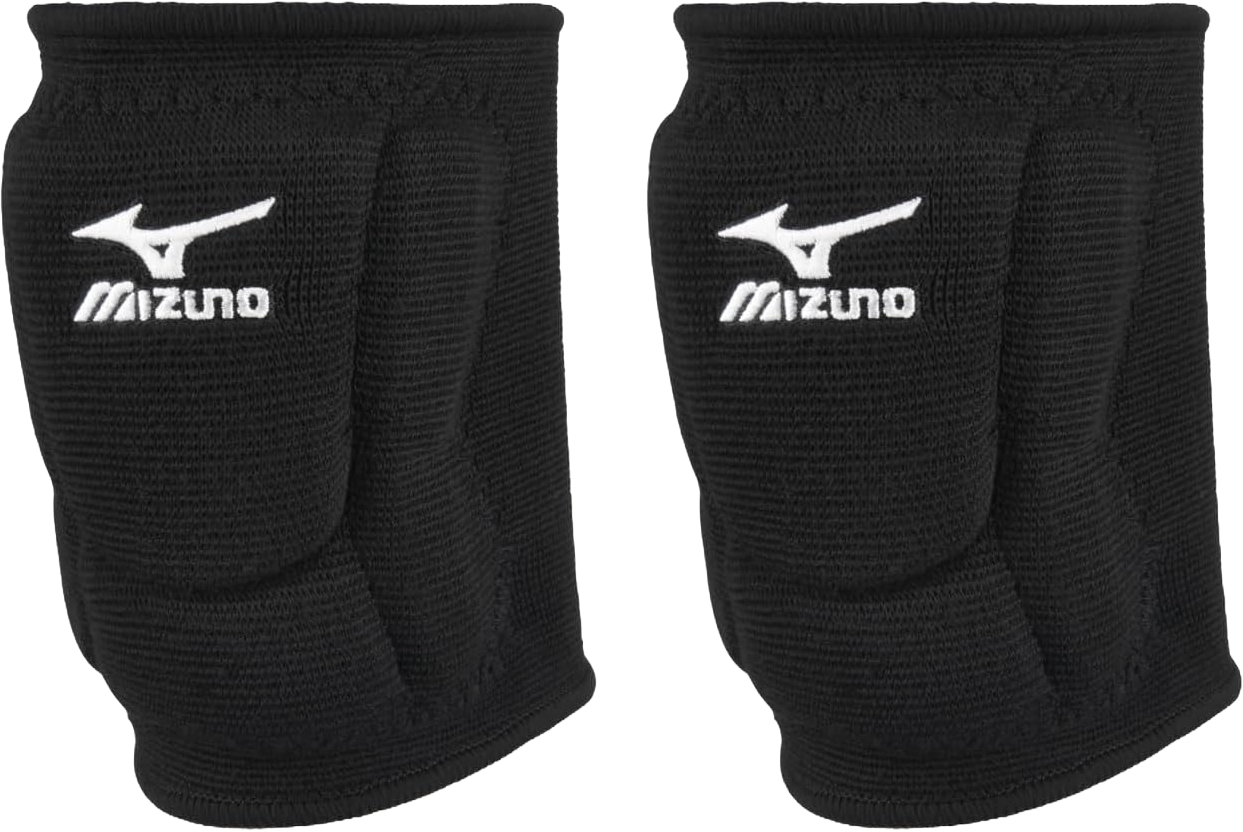
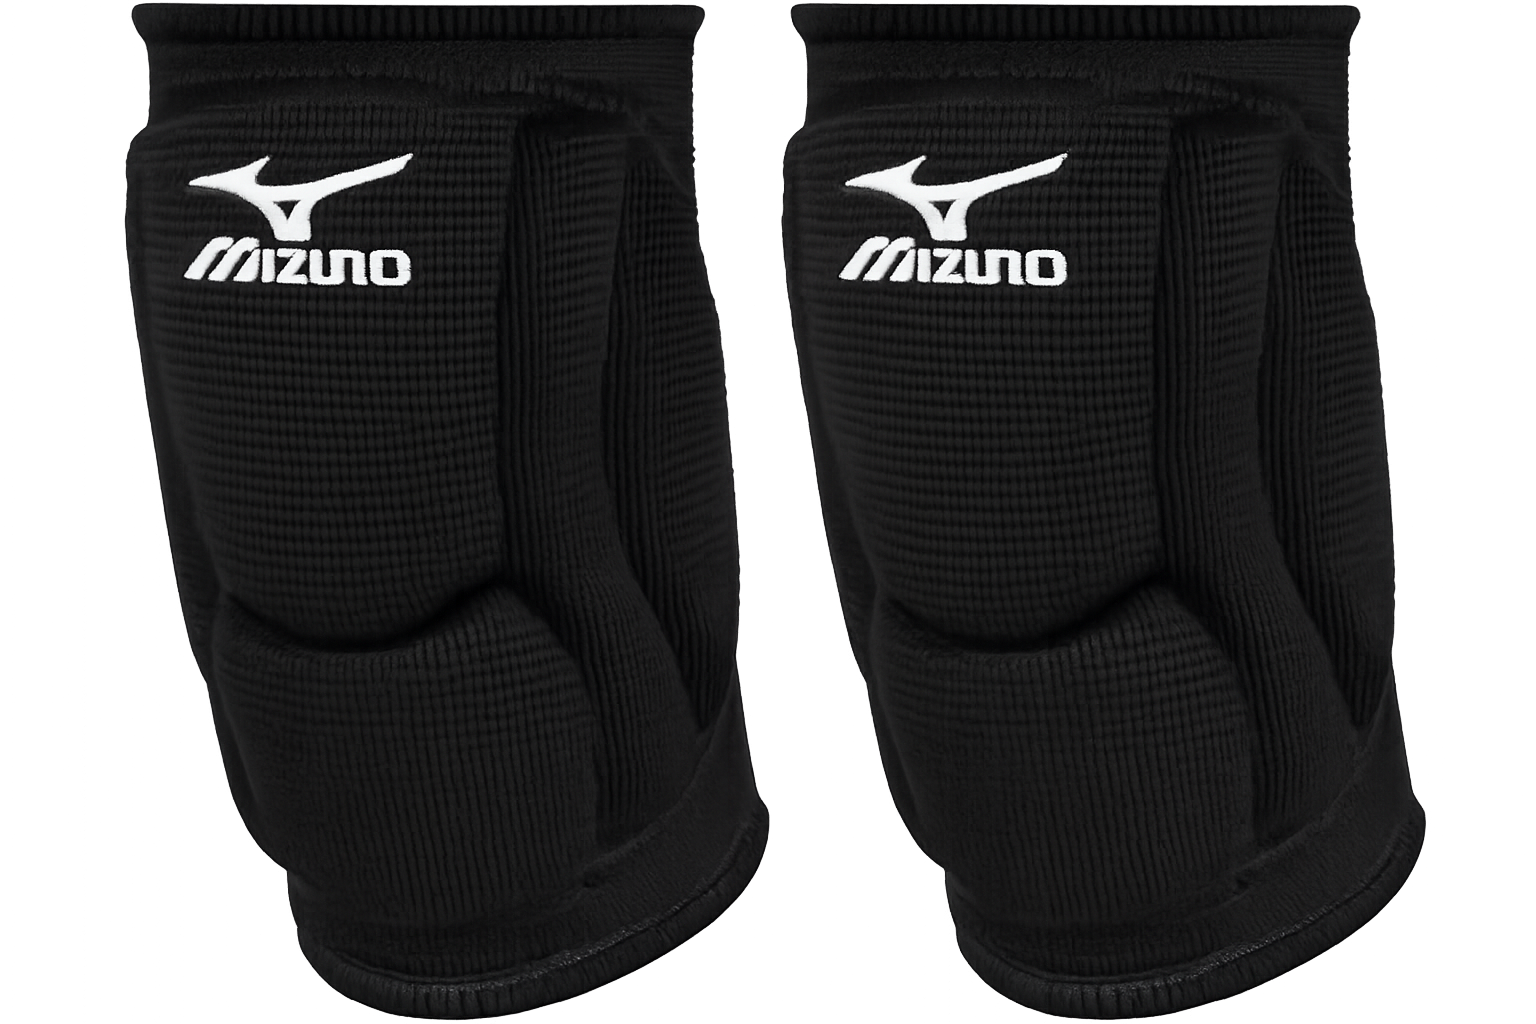
ajustes varios

diff --git a/src/components/Accesories_section.vue b/src/components/Accesories_section.vue
@@ -211,7 +211,10 @@ function altText({ referencia, material }) {
 /** Compensa imágenes con mucho espacio en blanco en accesorios puntuales */
 function accesorioImageScaleClass(item) {
   const ref = (item?.referencia || '').trim().toUpperCase()
+  const img = (item?.imagen || '').toLowerCase()
+  if (img.includes('/manilla_siliona.webp')) return 'scale-110'
   if (ref === 'MANILLAS SILICONA') return 'scale-150'
+  if (ref === 'MANILLAS SILICONA GREATNESS') return 'scale-175'
   if (ref.startsWith('MANILLA SILICONA ')) return 'scale-175'
   return ''
 }
